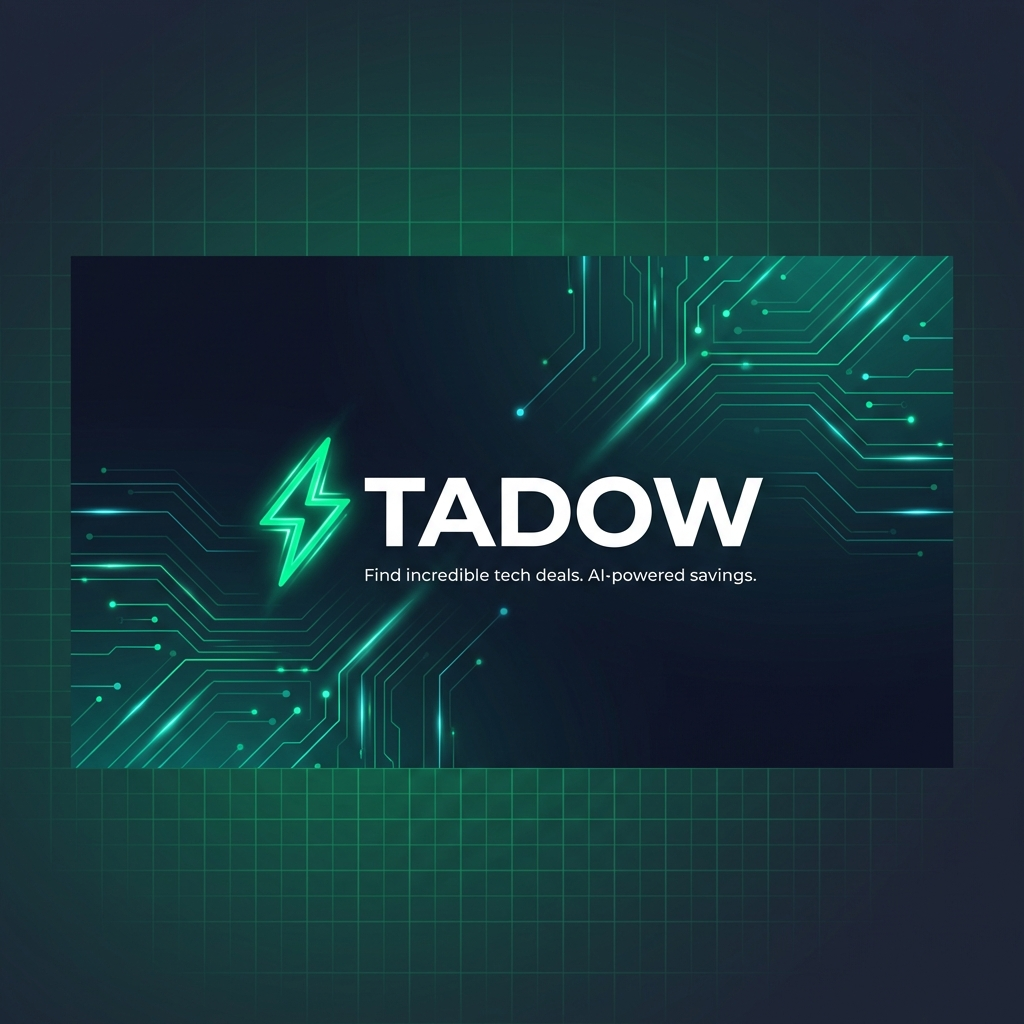
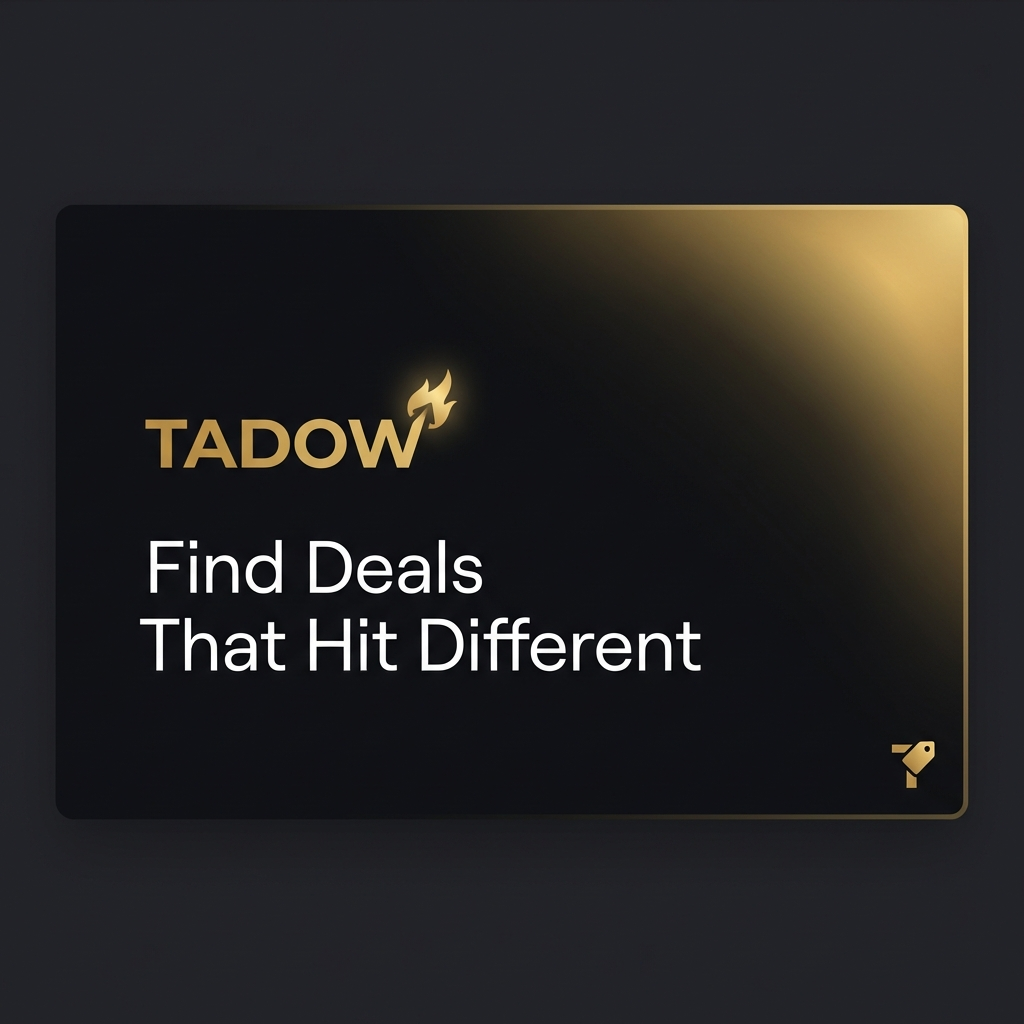
Complete Tadow branding overhaul - gold theme with urban energy + professional trust
Brand Assets:
- New refined gold TADOW logo with subtle flame accent
- Professional gold T favicon with elegant spark
- Updated OG card: 'Find Deals That Hit Different'

Color Scheme:
- New 'tadow' gold palette (#D4A857 primary)
- New 'flame' orange palette for hot deals
- New 'trust' green palette for success/savings
- Gold glow shadows and accents

Layout Updates:
- Gold branding in navigation and footer
- 'Deals That Hit Different' tagline
- Flame icons for Deals section
- Gold accent colors throughout
- Favicon image in header and footer

Balances urban hip-hop excitement with professional e-commerce trust

diff --git a/apps/web/src/components/Layout.tsx b/apps/web/src/components/Layout.tsx
@@ -1,7 +1,7 @@
 import { useState, useEffect } from 'react';
 import { Outlet, Link, useLocation } from 'react-router-dom';
 import { motion, AnimatePresence } from 'framer-motion';
-import { Search, Zap, Menu, X, Sparkles, Command } from 'lucide-react';
+import { Search, Flame, Menu, X, Sparkles, Command } from 'lucide-react';
 import { SearchModal, useSearchModal } from './SearchModal';
 
 export function Layout() {
@@ -22,9 +22,9 @@ export function Layout() {
     };
 
     const navLinks = [
-        { path: '/', label: 'Deals', icon: null },
+        { path: '/', label: 'Deals', icon: Flame },
         { path: '/search', label: 'Search', icon: Search },
-        { path: '/assistant', label: 'AI Assistant', icon: Zap, isAI: true },
+        { path: '/assistant', label: 'AI Assistant', icon: Sparkles, isAI: true },
     ];
 
     return (
@@ -38,22 +38,24 @@ export function Layout() {
                         {/* Logo */}
                         <Link to="/" className="flex items-center gap-3 group">
                             <motion.div
-                                whileHover={{ scale: 1.05, rotate: 2 }}
+                                whileHover={{ scale: 1.05 }}
                                 whileTap={{ scale: 0.95 }}
                                 className="relative"
                             >
-                                <div className="absolute inset-0 rounded-xl bg-gradient-to-br from-emerald-400 to-teal-500 blur-lg opacity-40 group-hover:opacity-70 transition-opacity duration-500" />
-                                <div className="relative w-10 h-10 rounded-xl bg-gradient-to-br from-emerald-400 via-emerald-500 to-teal-500 flex items-center justify-center shadow-lg shadow-emerald-500/25 overflow-hidden">
-                                    <Zap className="w-6 h-6 text-zinc-900 fill-current" />
-                                </div>
+                                <div className="absolute inset-0 rounded-xl bg-gradient-to-br from-amber-400 to-orange-500 blur-lg opacity-30 group-hover:opacity-60 transition-opacity duration-500" />
+                                <img
+                                    src="/favicon.png"
+                                    alt="Tadow"
+                                    className="relative w-10 h-10 rounded-xl shadow-lg shadow-amber-500/20"
+                                />
                             </motion.div>
 
                             <div className="flex flex-col">
-                                <span className="font-bold text-xl text-white tracking-tight group-hover:text-emerald-300 transition-colors">
+                                <span className="font-bold text-xl text-white tracking-tight group-hover:text-amber-400 transition-colors">
                                     Tadow
                                 </span>
                                 <span className="text-[10px] text-zinc-500 font-mono uppercase tracking-widest -mt-0.5">
-                                    Deal Intelligence
+                                    Deals That Hit Different
                                 </span>
                             </div>
                         </Link>
@@ -69,7 +71,7 @@ export function Layout() {
                                         <motion.div
                                             whileHover={{ y: -1 }}
                                             className={`flex items-center gap-1.5 ${isActive
-                                                ? link.isAI ? 'text-violet-400' : 'text-emerald-400'
+                                                ? link.isAI ? 'text-violet-400' : 'text-amber-400'
                                                 : 'text-zinc-400 group-hover:text-white'
                                                 }`}
                                         >
@@ -200,21 +202,23 @@ export function Layout() {
                     <div className="grid grid-cols-1 md:grid-cols-5 gap-10">
                         <div className="md:col-span-2">
                             <div className="flex items-center gap-3 mb-5">
-                                <div className="w-10 h-10 rounded-xl bg-gradient-to-br from-emerald-400 to-teal-500 flex items-center justify-center">
-                                    <Zap className="w-6 h-6 text-zinc-900 fill-current" />
-                                </div>
+                                <img
+                                    src="/favicon.png"
+                                    alt="Tadow"
+                                    className="w-10 h-10 rounded-xl shadow-lg"
+                                />
                                 <div>
                                     <span className="font-bold text-xl text-white">Tadow</span>
                                     <span className="text-zinc-600 text-xs ml-2 font-mono">v1.0</span>
                                 </div>
                             </div>
                             <p className="text-zinc-400 text-sm leading-relaxed mb-5 max-w-xs">
-                                AI-powered deal intelligence platform. Find the best prices across
+                                AI-powered deal intelligence. Find deals that hit different across
                                 every marketplace—never overpay again.
                             </p>
-                            <div className="flex items-center gap-2 px-3 py-2 bg-emerald-500/10 border border-emerald-500/20 rounded-lg w-fit">
-                                <span className="w-2 h-2 rounded-full bg-emerald-400 animate-pulse" />
-                                <span className="text-emerald-400 text-xs font-medium">All systems operational</span>
+                            <div className="flex items-center gap-2 px-3 py-2 bg-amber-500/10 border border-amber-500/20 rounded-lg w-fit">
+                                <span className="w-2 h-2 rounded-full bg-amber-400 animate-pulse" />
+                                <span className="text-amber-400 text-xs font-medium">All systems operational</span>
                             </div>
                         </div>
 

diff --git a/apps/web/tailwind.config.js b/apps/web/tailwind.config.js
@@ -21,7 +21,46 @@ export default {
                     900: '#0c0c0f', // Deep dark
                     950: '#050507', // Near black
                 },
-                // Mint - Savings & Success Accent
+                // Tadow Gold - Primary Brand Color (excitement + trust)
+                tadow: {
+                    50: '#fdf8ef',
+                    100: '#f9efd9',
+                    200: '#f2ddb2',
+                    300: '#e9c580',
+                    400: '#dea94d', // Bright gold
+                    500: '#d4a857', // Primary gold
+                    600: '#c08b3a', // Rich gold
+                    700: '#9f6d2e',
+                    800: '#82572a',
+                    900: '#6b4826',
+                },
+                // Flame - Hot deals accent (excitement)
+                flame: {
+                    50: '#fff7ed',
+                    100: '#ffedd5',
+                    200: '#fed7aa',
+                    300: '#fdba74',
+                    400: '#fb923c', // Hot orange
+                    500: '#f97316', // Primary flame
+                    600: '#ea580c',
+                    700: '#c2410c',
+                    800: '#9a3412',
+                    900: '#7c2d12',
+                },
+                // Trust - Success/savings (reliability)
+                trust: {
+                    50: '#ecfdf5',
+                    100: '#d1fae5',
+                    200: '#a7f3d0',
+                    300: '#6ee7b7',
+                    400: '#34d399',
+                    500: '#10b981', // Primary success
+                    600: '#059669',
+                    700: '#047857',
+                    800: '#065f46',
+                    900: '#064e3b',
+                },
+                // Mint - Savings & Success Accent (legacy)
                 mint: {
                     50: '#ecfdf5',
                     100: '#d1fae5',
@@ -89,6 +128,8 @@ export default {
             boxShadow: {
                 'glass': '0 4px 24px rgba(0, 0, 0, 0.4)',
                 'glass-lg': '0 8px 40px rgba(0, 0, 0, 0.5)',
+                'glow-gold': '0 0 40px rgba(212, 168, 87, 0.2)',
+                'glow-flame': '0 0 40px rgba(249, 115, 22, 0.15)',
                 'glow-mint': '0 0 40px rgba(16, 185, 129, 0.15)',
                 'glow-electric': '0 0 40px rgba(14, 165, 233, 0.15)',
                 'card': '0 1px 3px rgba(0, 0, 0, 0.3), 0 4px 12px rgba(0, 0, 0, 0.2)',
